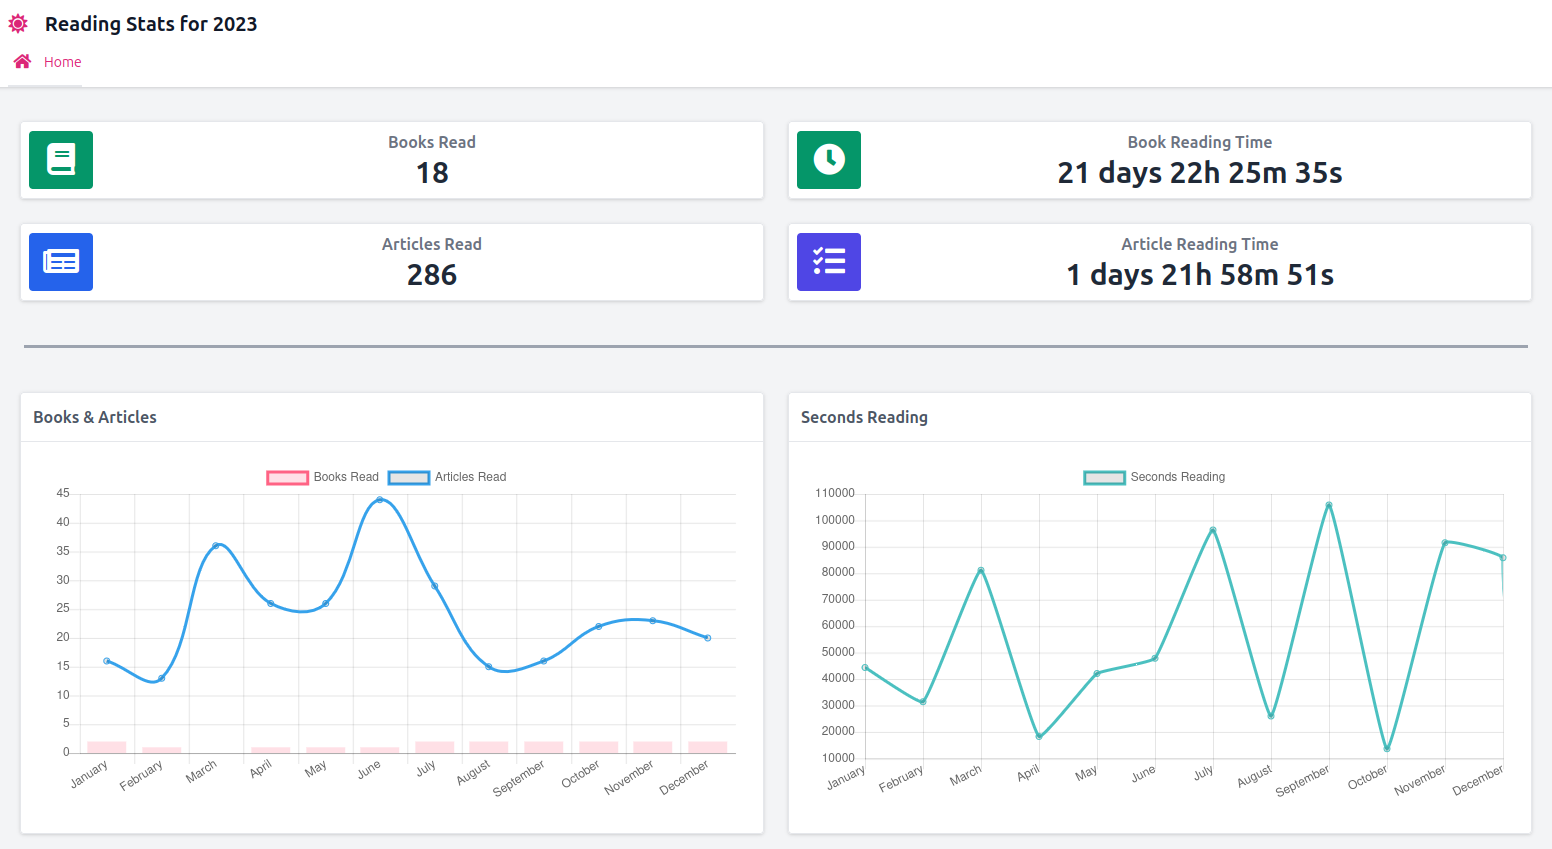
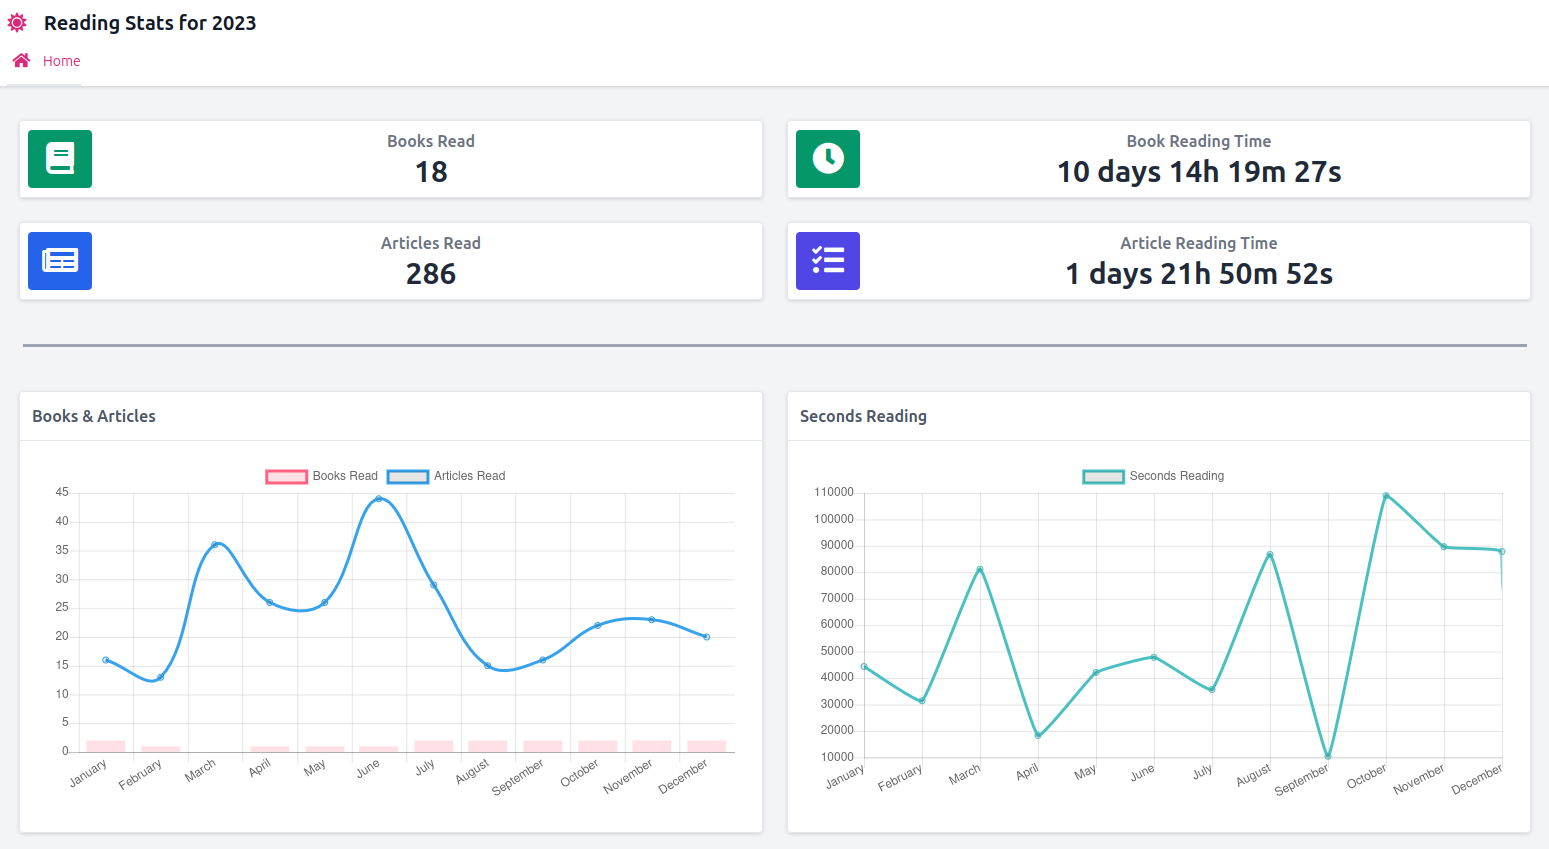
pkg/stats Fix double counting of reading time in book across months

diff --git a/pkg/stats.go b/pkg/stats.go
@@ -245,9 +245,7 @@ func (s Stats) BooksSecondsReadMonth(year, month int) int {
 	result := 0
 
 	for idx := range s.Years[year].Months[month].Books {
-		for jdx := range s.Years[year].Months[month].Books[idx].Reads {
-			result += s.Years[year].Months[month].Books[idx].Reads[jdx].Duration
-		}
+		result += s.Years[year].Months[month].Books[idx].ReadSecondsInMonth(year, month)
 	}
 
 	return result
@@ -277,9 +275,7 @@ func (s Stats) ArticlesSecondsReadMonth(year, month int) int {
 	result := 0
 
 	for idx := range s.Years[year].Months[month].Articles {
-		for jdx := range s.Years[year].Months[month].Articles[idx].Reads {
-			result += s.Years[year].Months[month].Articles[idx].Reads[jdx].Duration
-		}
+		result += s.Years[year].Months[month].Articles[idx].ReadSecondsInMonth(year, month)
 	}
 
 	return result

diff --git a/pkg/stats-book.go b/pkg/stats-book.go
@@ -71,6 +71,20 @@ func (b StatsBook) ReadSecondsInYear(year int) int {
 	return result
 }
 
+func (b StatsBook) ReadSecondsInMonth(year, month int) int {
+	result := 0
+
+	for idx := range b.Reads {
+		readTime, _ := time.Parse(StorageTimeFmt, b.Reads[idx].Time)
+
+		if year == readTime.Year() && month == int(readTime.Month()) {
+			result += b.Reads[idx].Duration
+		}
+	}
+
+	return result
+}
+
 func (b StatsBook) ReadSecondsInWeek(year int, week int) int {
 	result := 0
 
